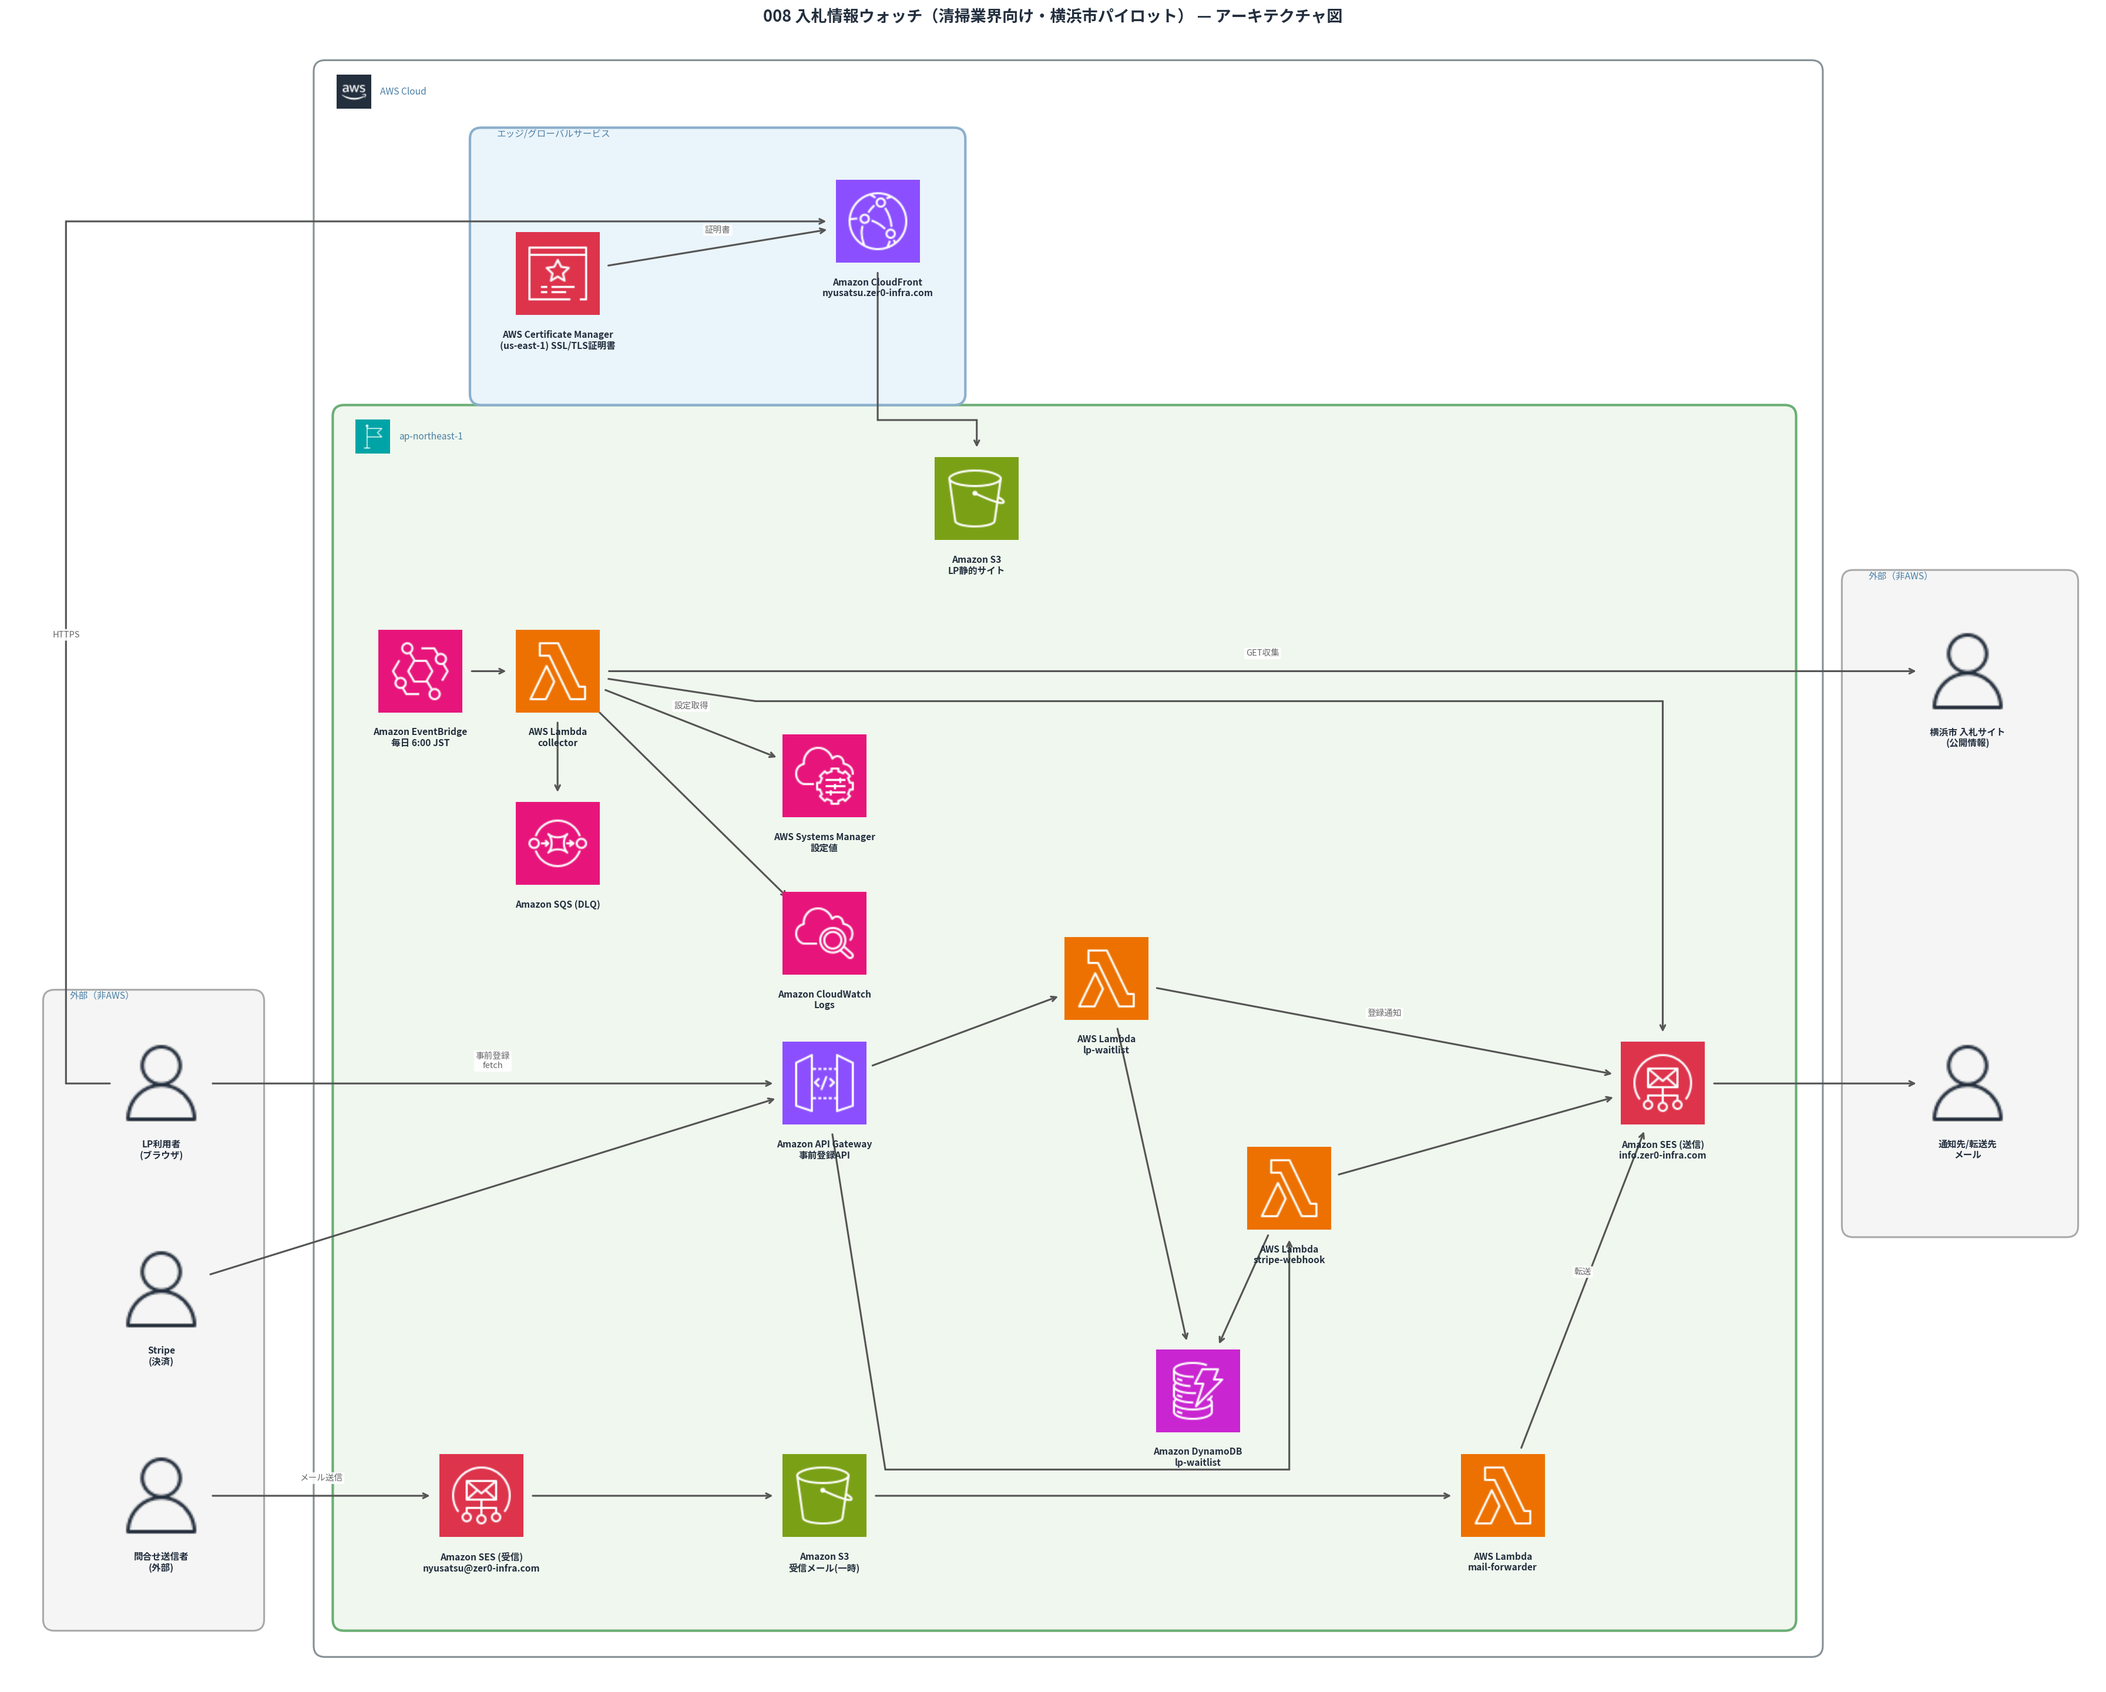
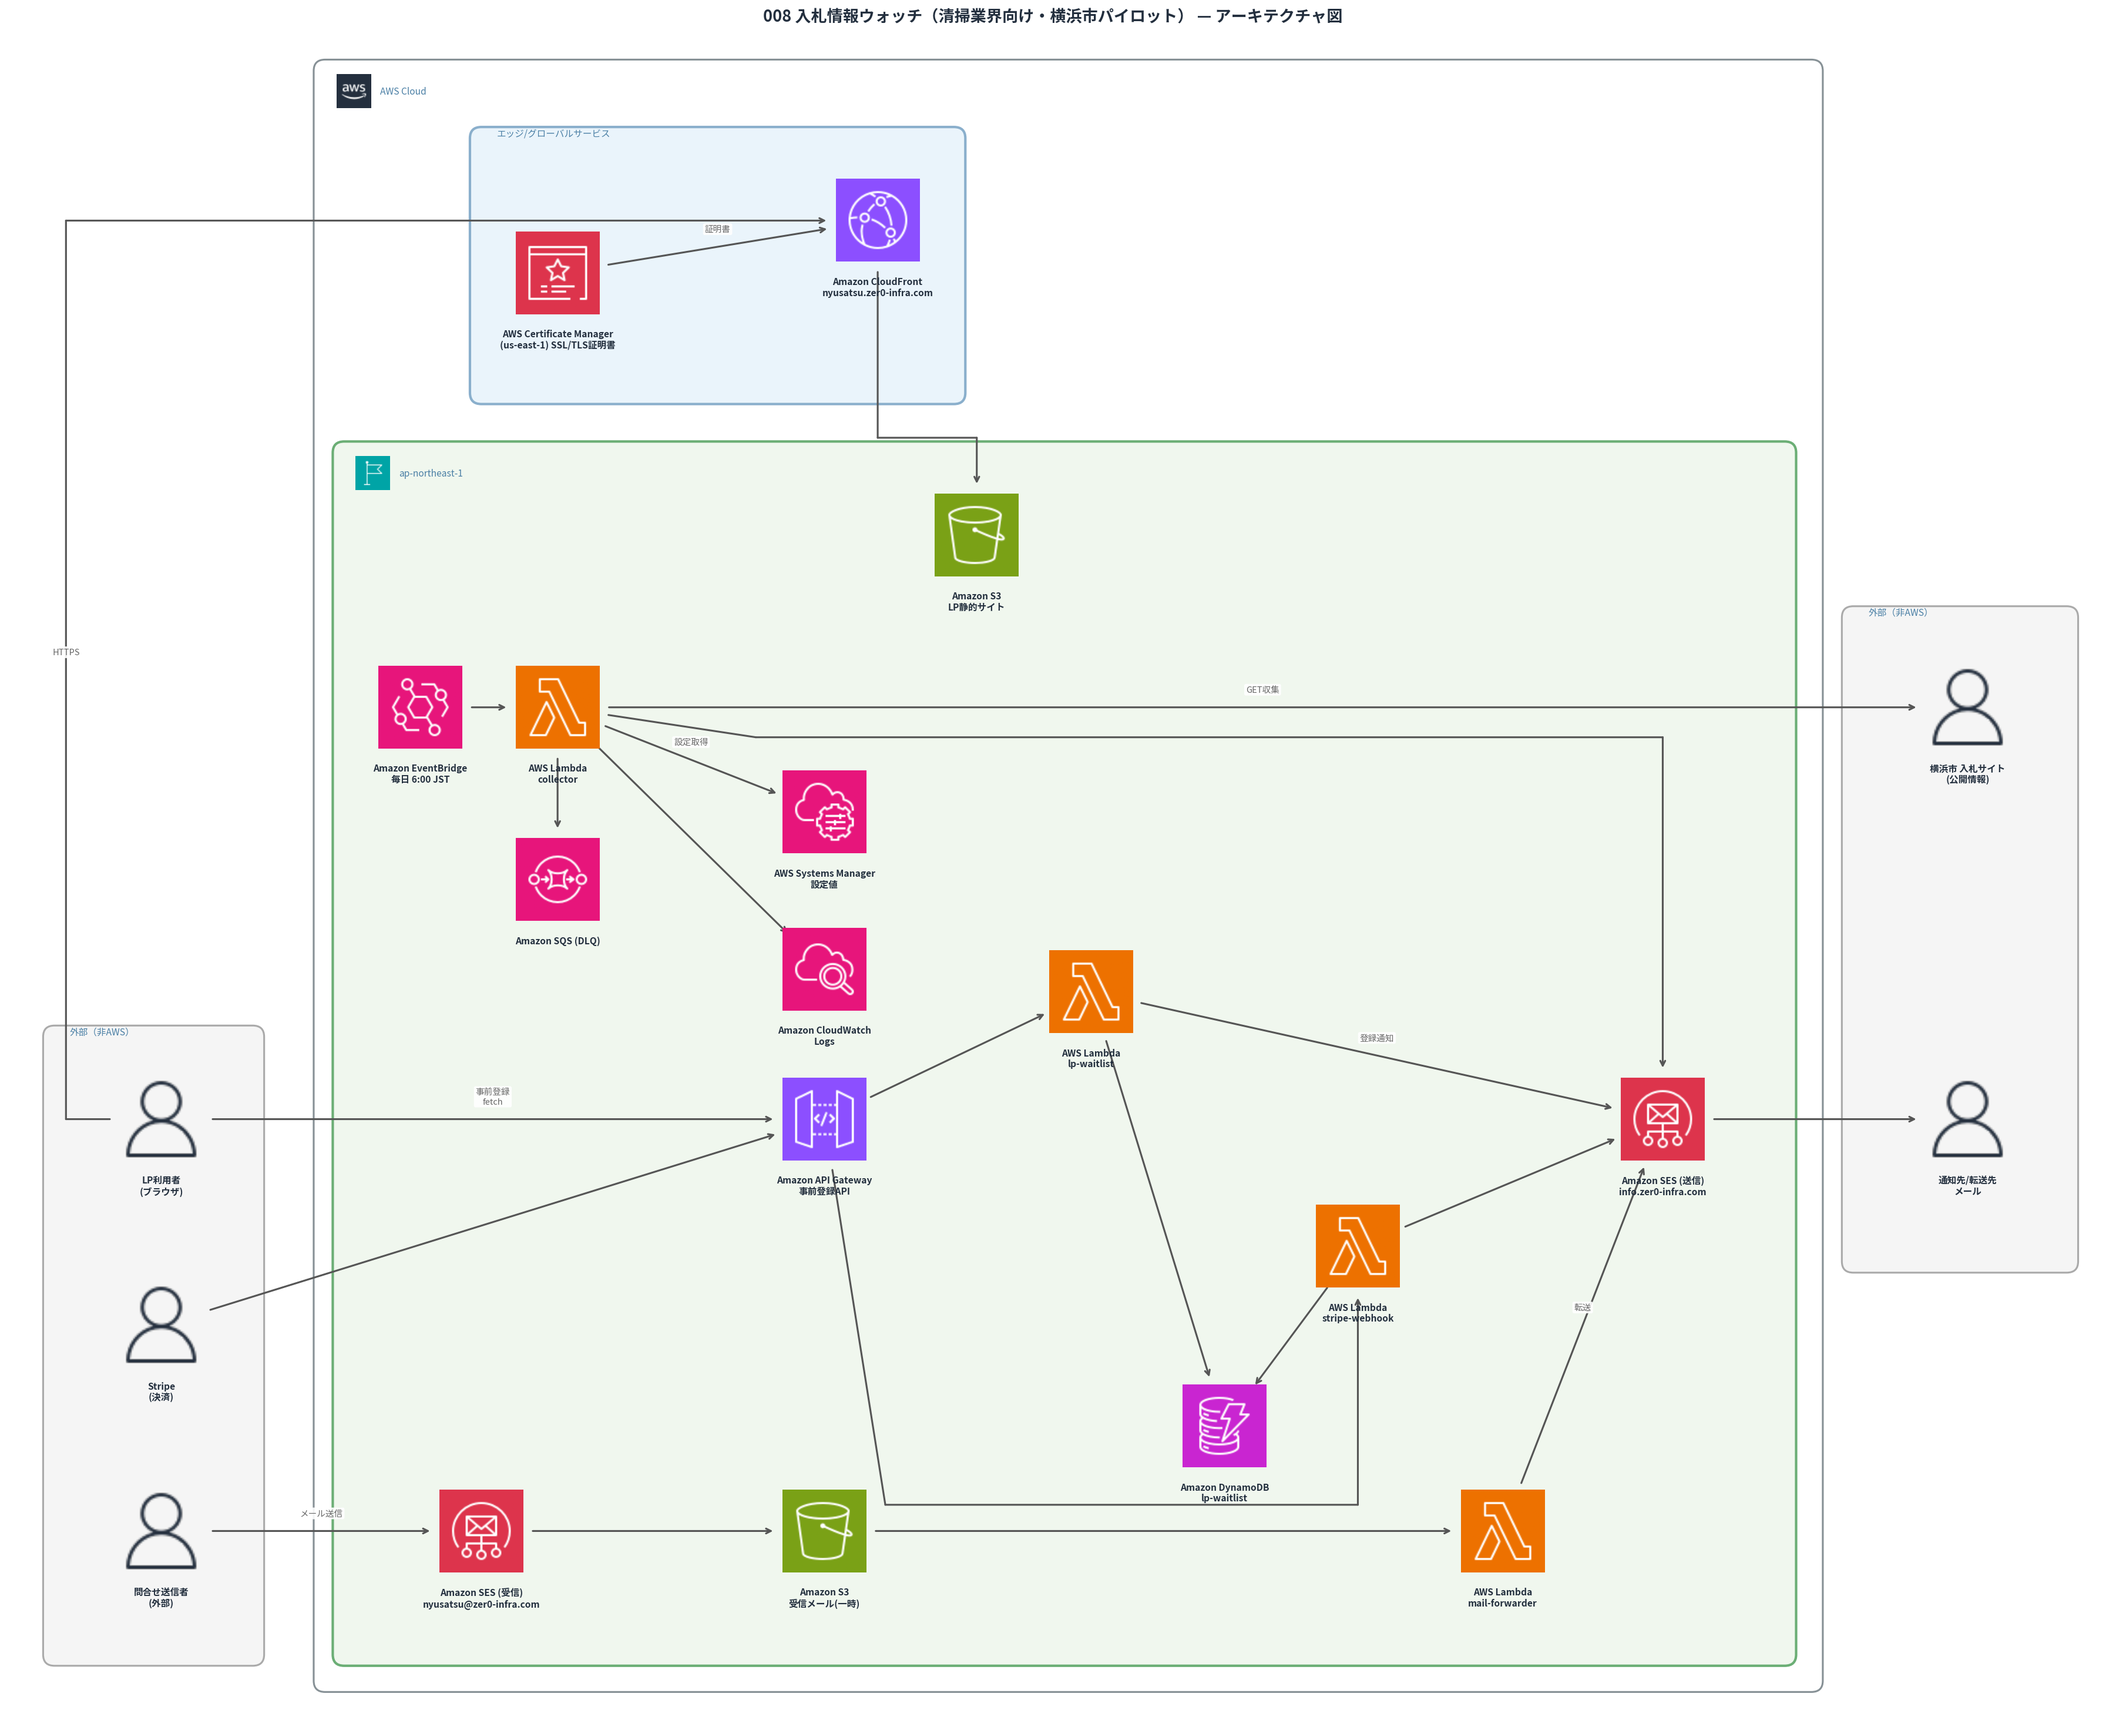
auto-sync: 2026-08-09 14:24

diff --git a/008_nyusatsu-notify-bot/scripts/generate_diagram.py b/008_nyusatsu-notify-bot/scripts/generate_diagram.py
@@ -76,16 +76,17 @@ def draw():
         {'id': 'apigw',   'icon': 'api_gateway', 'label': 'Amazon API Gateway\n事前登録API',      'x': 9.5,  'y': 6.5},
         # lambda_wl/lambda_sw(下記Stripe節)はapigwからの上下2トラックに分岐させ、
         # ddb_wl/ses_outへの経路が互いの垂直線と交差しないよう縦にずらして配置する。
-        {'id': 'lambda_wl','icon': 'lambda',     'label': 'AWS Lambda\nlp-waitlist',              'x': 13.2, 'y': 7.9},
-        {'id': 'ddb_wl',  'icon': 'dynamodb',    'label': 'Amazon DynamoDB\nlp-waitlist',         'x': 14.4, 'y': 2.4},
+        # apigwからの距離をほぼ揃え(上下対称寄り)、雑然と見えないよう整えてある。
+        {'id': 'lambda_wl','icon': 'lambda',     'label': 'AWS Lambda\nlp-waitlist',              'x': 13.0, 'y': 8.2},
+        {'id': 'ddb_wl',  'icon': 'dynamodb',    'label': 'Amazon DynamoDB\nlp-waitlist',         'x': 14.75,'y': 2.4},
 
         # --- エッジ/グローバルサービス(2026-08-09、region枠の外・AWS Cloud内) ---
         # CloudFrontはグローバルサービス、ACMもCloudFront証明書はus-east-1発行のため
         # 両方ともap-northeast-1リージョンに属さない。AWS Cloud直下・region枠の外の
         # 専用クラスターに切り出し、region枠との二重内包(冗長)を解消する。
         # y座標はregion枠拡大後のギャップ(y=14.1〜14.8)を確保できる高さに設定。
-        {'id': 'acm', 'icon': 'acm',        'label': 'AWS Certificate Manager\n(us-east-1) SSL/TLS証明書', 'x': 6.0,  'y': 17.3},
-        {'id': 'cf',  'icon': 'cloudfront', 'label': 'Amazon CloudFront\nnyusatsu.zer0-infra.com',        'x': 10.2, 'y': 18.0},
+        {'id': 'acm', 'icon': 'acm',        'label': 'AWS Certificate Manager\n(us-east-1) SSL/TLS証明書', 'x': 6.0,  'y': 17.8},
+        {'id': 'cf',  'icon': 'cloudfront', 'label': 'Amazon CloudFront\nnyusatsu.zer0-infra.com',        'x': 10.2, 'y': 18.5},
 
         # --- レーン3: 問合せメール転送(新規)  y=1.0 ---
         {'id': 'inquirer','icon': 'user',        'label': '問合せ送信者\n(外部)',                 'x': 0.8,  'y': 1.0},
@@ -103,7 +104,7 @@ def draw():
         # stripe自体は左側の外部クラスターにbrowser/inquirerと並べて配置、
         # lambda_swはapigwの下トラックとして、lambda_wl(上トラック)と対称に配置する。 ---
         {'id': 'stripe',    'icon': 'user',   'label': 'Stripe\n(決済)',         'x': 0.8,  'y': 3.75},
-        {'id': 'lambda_sw', 'icon': 'lambda', 'label': 'AWS Lambda\nstripe-webhook', 'x': 15.6, 'y': 5.1},
+        {'id': 'lambda_sw', 'icon': 'lambda', 'label': 'AWS Lambda\nstripe-webhook', 'x': 16.5, 'y': 4.8},
     ]
 
     edges = [
@@ -122,12 +123,12 @@ def draw():
         # browser→cfは外部クラスター左端の専用縦帯(x=-0.45、stripe→apigwの
         # x=-0.3とは0.15離して並走)を通り、region枠の外(エッジ/グローバル
         # クラスター、y=17.1)まで直接立ち上げる。
-        ('browser',   'cf',       'HTTPS', [(-0.45, 6.5), (-0.45, 18.0)]),
-        # cf→s3lpはエッジクラスター下端(y=15.7)とregion枠上端(y=15.0)の間の
-        # 隙間(y=15.35)を東西に通ってからs3lpへ下りる。s3lpをy=14.3に置いたのは、
+        ('browser',   'cf',       'HTTPS', [(-0.45, 6.5), (-0.45, 18.5)]),
+        # cf→s3lpはエッジクラスター下端(y=16.2)とregion枠上端(y=15.0)の間の
+        # 隙間(y=15.6)を東西に通ってからs3lpへ下りる。s3lpをy=14.3に置いたのは、
         # 'lambda'→'site'(GET収集、y=12.0でregion全幅を横断)とラベルごと
         # 交差しないため。
-        ('cf',        's3lp',     '', [(10.2, 15.35), (11.5, 15.35)]),
+        ('cf',        's3lp',     '', [(10.2, 15.6), (11.5, 15.6)]),
         # cf/acmをregion外へ退避させたことでy=6.5〜7.3が完全に空いたため、
         # browser→apigwは迂回なしの直線で引ける(2026-08-09に単純化)。
         ('browser',   'apigw',    '事前登録\nfetch'),
@@ -153,7 +154,7 @@ def draw():
         # y=1.459〜1.800。その下端から0.1余裕を取ったy=1.35を通す
         # (s3mail/lambda_fw接続線y=1.0とは0.35離れており平行線として
         # 視覚的に十分区別できる)。
-        ('apigw',     'lambda_sw','', [(10.3, 1.35), (15.6, 1.35)]),
+        ('apigw',     'lambda_sw','', [(10.3, 1.35), (16.5, 1.35)]),
         ('lambda_sw', 'ddb_wl',   ''),
         ('lambda_sw', 'ses_out',  ''),
     ]
@@ -165,7 +166,7 @@ def draw():
         # の確定値をもとに手計算(auto-paddingの対象外)。
         {
             'label': 'AWS Cloud', 'icon': 'aws_cloud_logo',
-            'x': 2.95, 'y': -1.0, 'w': 19.5, 'h': 21.0,
+            'x': 2.95, 'y': -1.0, 'w': 19.5, 'h': 21.5,
             'color': '#FFFFFF', 'edgecolor': '#879196',
             'linestyle': '-', 'linewidth': 1.5,
         },
@@ -186,9 +187,13 @@ def draw():
         # 「リージョン/VPC/サブネット」のような公式グループアイコンが存在する
         # 概念ではないため、外部(非AWS)クラスターと同様アイコンなしとする
         # (ただしAWS所属を示すため水色系で外部クラスターの淡灰色と区別する)。
+        # 下端(y=16.2)とregion枠上端(y=15.0)の数値上の隙間は1.2だが、
+        # FancyBboxPatchのboxstyle='round,pad=0.15'により両クラスターとも
+        # 実際の描画は指定座標より0.15ずつ外側へ膨らむため、視覚的な隙間は
+        # 1.2-0.15-0.15=0.9(CLAUDE.mdの「0.8以上」を満たす最小限の計算)。
         {
             'label': 'エッジ/グローバルサービス', 'icon': None,
-            'x': 5.0, 'y': 15.7, 'w': 6.2, 'h': 3.4,
+            'x': 5.0, 'y': 16.2, 'w': 6.2, 'h': 3.4,
             'color': '#EAF4FB', 'edgecolor': '#8AAFCC',
             'linestyle': '-', 'linewidth': 2.0,
         },
@@ -224,9 +229,9 @@ def draw():
             if ny - cl['y'] < _PAD_BOT:
                 d = _PAD_BOT - (ny - cl['y']); cl['y'] -= d; cl['h'] += d
 
-    fig, ax = plt.subplots(figsize=(24, 19.3), dpi=150)
+    fig, ax = plt.subplots(figsize=(24, 19.7), dpi=150)
     ax.set_xlim(-1.2, 26.2)
-    ax.set_ylim(-1.5, 20.5)
+    ax.set_ylim(-1.5, 21.0)
     ax.set_aspect('equal')
     ax.axis('off')
     fig.patch.set_facecolor('white')

diff --git a/008_nyusatsu-notify-bot/docs-public/CHANGELOG.md b/008_nyusatsu-notify-bot/docs-public/CHANGELOG.md
@@ -12,6 +12,8 @@
 - 併せて、EventBridgeノードがap-northeast-1枠からはみ出して配置されていた既存の座標ズレ（今回の見直しで発覚）も修正
 - ユーザー指摘を受け、AWS Cloud・ap-northeast-1の二重内包が実質冗長（両クラスターの内包ノードが完全一致）だった点を是正。CloudFront・ACM（us-east-1発行）はリージョンに属さないグローバル/エッジサービスのため、region枠の外・AWS Cloud内に「エッジ/グローバルサービス」クラスターとして独立させ、region枠との境界を越える接続だけがまたぐ構成に変更
 - 上記の再配置に伴い、S3(LP静的サイト)がEventBridge/Lambdaと矩形重なりを起こす配置ミスを検出・修正。さらに矢印がノードラベルの文字にかぶる問題（ユーザー指摘）を受け、matplotlibの`get_window_extent`でラベルの実測境界を取得し、全経路がラベル文字と交差しない座標になるまで調整
+- ユーザー指摘で「エッジ/グローバルサービス」クラスターとregion枠が重なっていることが判明。原因は`FancyBboxPatch`の`boxstyle='round,pad=0.15'`が指定座標より各辺0.15外側に描画を膨らませる仕様を計算に入れておらず、数値上のギャップ0.7が視覚的には0.4しかなかったこと。パディング分を加味してギャップを1.2に拡大し、CLAUDE.mdの「隣接クラスター間ギャップ0.8以上」を満たすよう修正
+- ユーザー指摘でLambda（lp-waitlist・stripe-webhook）2つの配置が雑然として見える点も改善。API Gatewayからの距離をほぼ揃えた対称配置に変更し、DynamoDBの位置も微調整。交差ゼロ・アイコン非接触は引き続きスクリプトで機械的に検証
 
 ### 構成図の線の交差を解消
 

diff --git a/008_nyusatsu-notify-bot/docs-public/README.md b/008_nyusatsu-notify-bot/docs-public/README.md
@@ -220,6 +220,7 @@ Fableでの調査比較の結果、以下の理由で横浜市を選定した。
 - サービス名を正式名称に統一し、ラベルは2行以内・単語途中で改行しないルールを徹底（「Lambda」→「AWS Lambda」等）
 - 図全体を囲む「AWS Cloud」外枠を新設し、ap-northeast-1リージョン枠をその内側に配置する2階層構造に変更
 - ユーザー指摘で二重内包の冗長性が判明し、CloudFront・ACM(us-east-1)をリージョン外の「エッジ/グローバルサービス」クラスターへ分離。矢印がラベル文字にかぶる問題もmatplotlibの実測境界を使って解消
+- クラスター枠の重なり（`FancyBboxPatch`のpad分を計算に入れ忘れていたのが原因）、Lambda 2つの雑然とした配置もユーザー指摘を受けて修正
 
 #### 構成図の線の交差を解消
 
